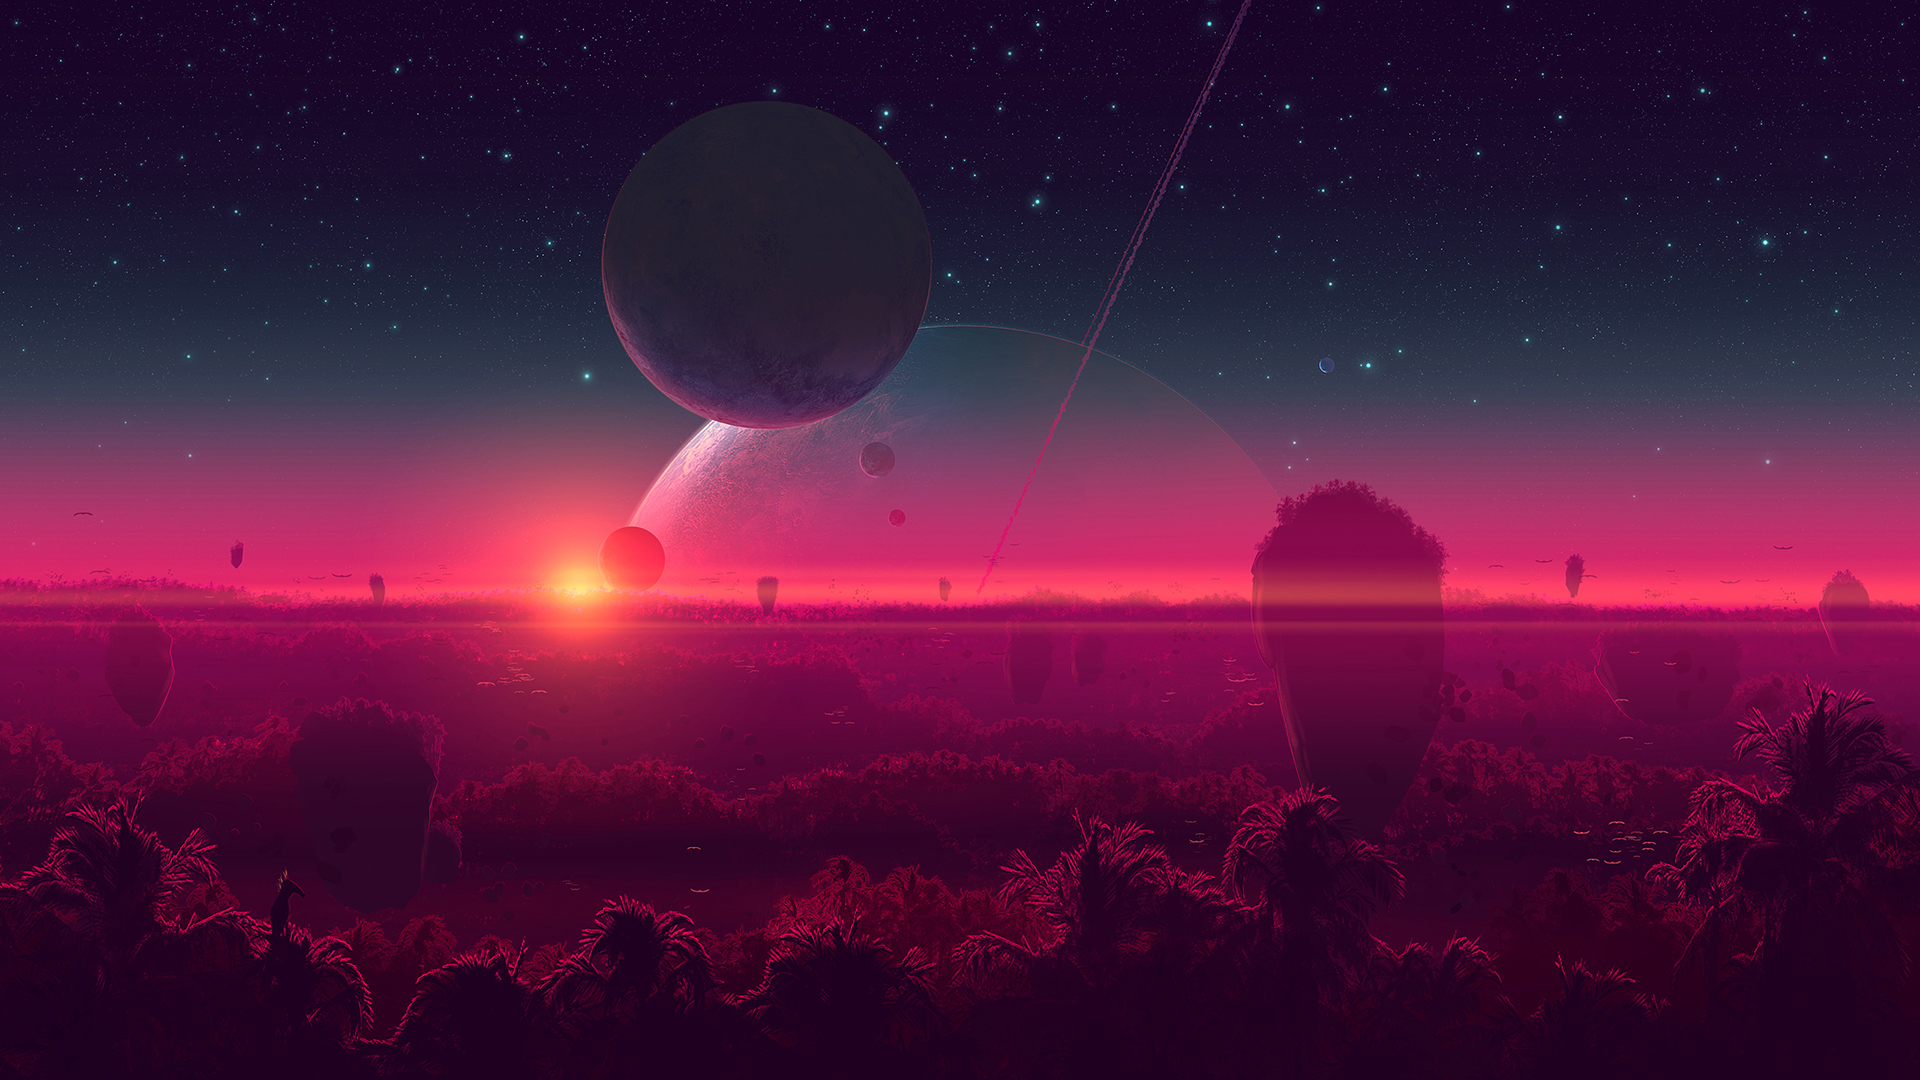
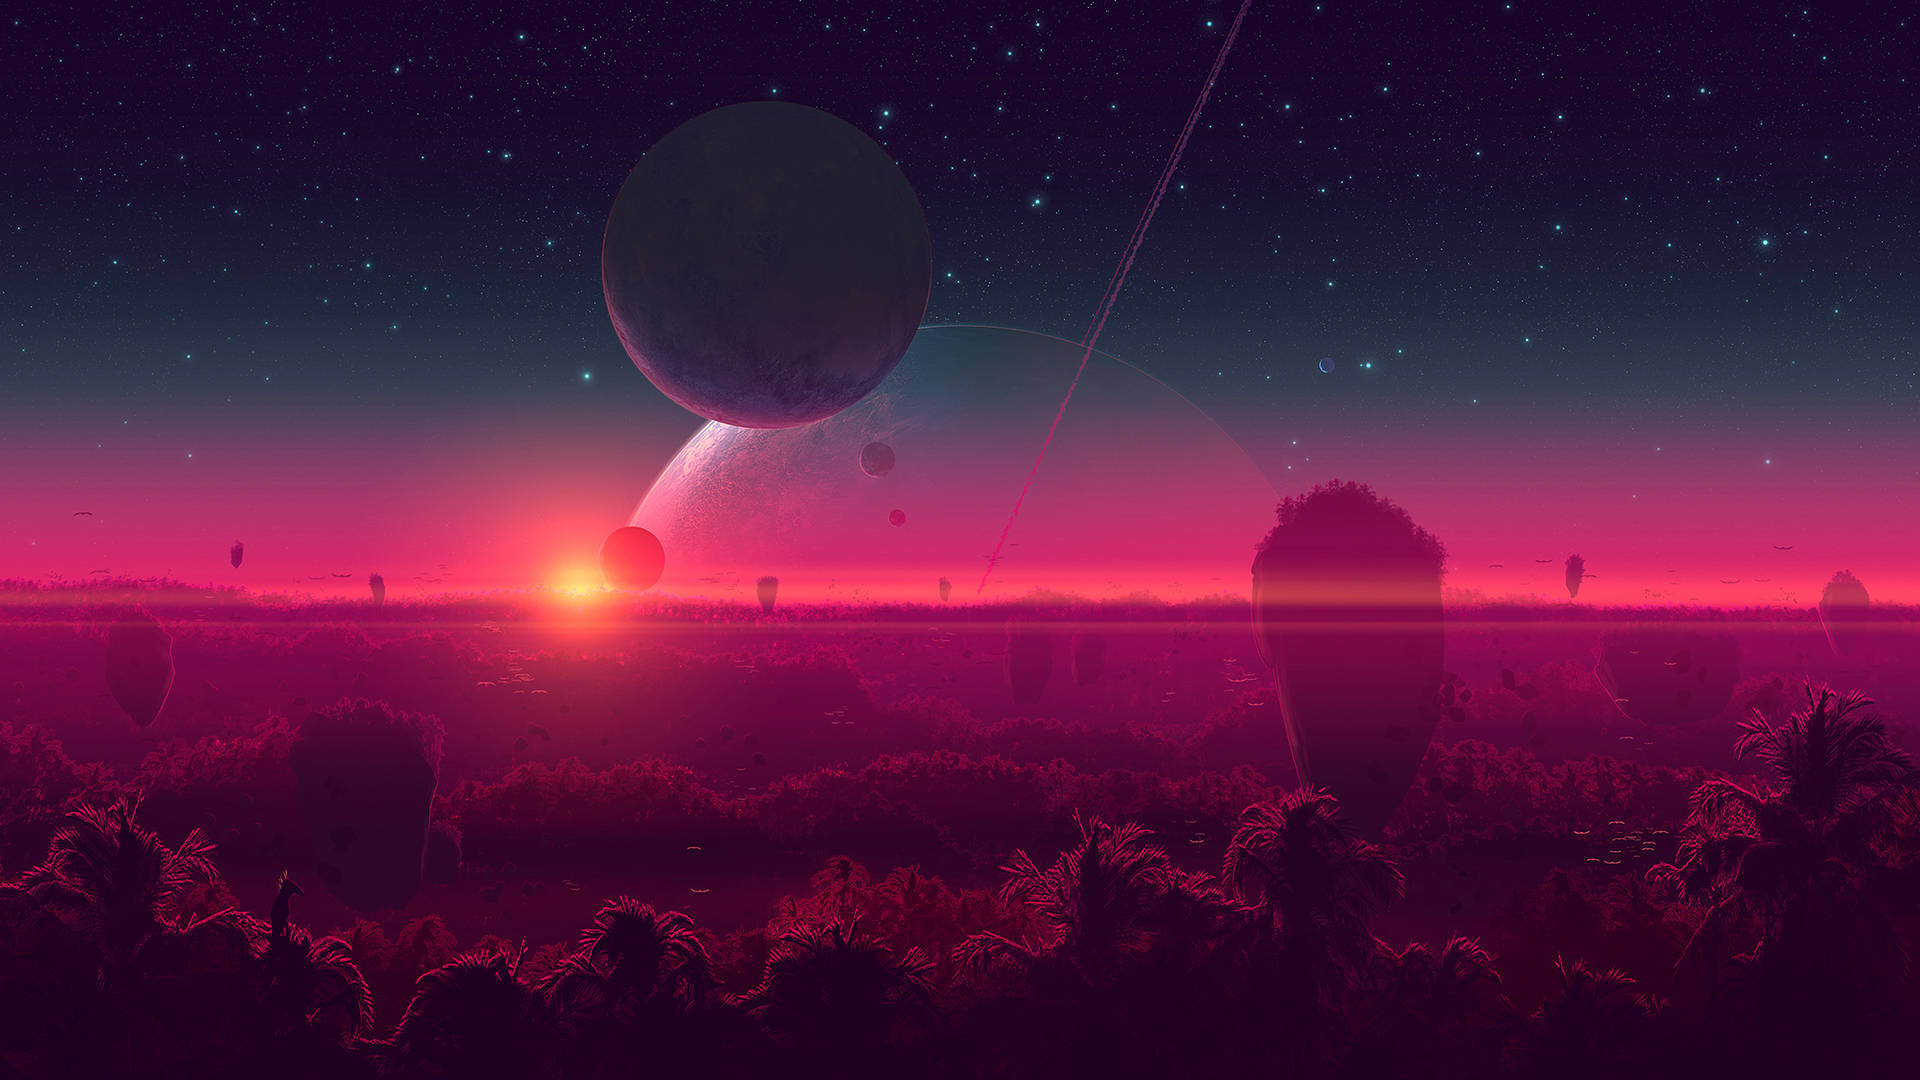
背景图压缩；增加个人图

diff --git a/src/components/Home.vue b/src/components/Home.vue
@@ -7,7 +7,9 @@
       <div class='blur'></div>
     </div>
     <svg id='arrow' xmlns='http://www.w3.org/2000/svg' xmlns:xlink='http://www.w3.org/1999/xlink' style='isolation:isolate' viewBox='0 0 50 50'><defs><clipPath id='_clipPath_AsJKgimMsSXFeT2uLS5Tj3jwSrgqg3eC'><rect width='50' height='50'/></clipPath></defs><g clip-path='url(#_clipPath_AsJKgimMsSXFeT2uLS5Tj3jwSrgqg3eC)'><path d=' M 15.546 7.5 L 4.793 7.5 L 14.896 25 L 25 42.5 L 35.104 25 L 45.207 7.5 L 34.454 7.5 L 29.727 15.688 L 25 23.875 L 20.273 15.687 L 15.546 7.5 Z ' fill-rule='evenodd'/></g></svg>
-    <div class='scene'></div>
+    <div class='scene'>
+      <div class="me"></div>
+    </div>
     <div class='scene'>
       <div class='logo'></div>
       <div class="name">鹏鹏</div>
@@ -63,6 +65,14 @@ export default {
           $scenes[i].style.opacity = '0'
           $scenes[i].style.visibility = 'hidden'
         }
+      }
+      let $me = document.querySelector('.me')
+      if (scrolled < 1 / 9) {
+        $me.style.left = '150%'
+      } else if (scrolled >= 2 / 9) {
+        $me.style.left = '-150%'
+      } else {
+        $me.style.left = (150 - (scrolled - 1 / 9) * 9 * 300) + '%'
       }
       let $logo = document.querySelector('.logo')
       if (scrolled >= 1 / 3 && scrolled < 2 / 3) {
@@ -187,6 +197,17 @@ export default {
   flex-flow: column nowrap;
   justify-content: center;
   align-items: center;
+}
+.me {
+  background-image: url(../assets/me.jpg);
+  background-repeat: no-repeat;
+  background-size: cover;
+  width: 60vmin;
+  height: 45vmin;
+  border-radius: 5vmin;
+  box-shadow: 0px 0px 10vmin 1vmin #000000bb;
+  position: absolute;
+  left: 150%;
 }
 .logo {
   background-image: url(../assets/logo.png);
